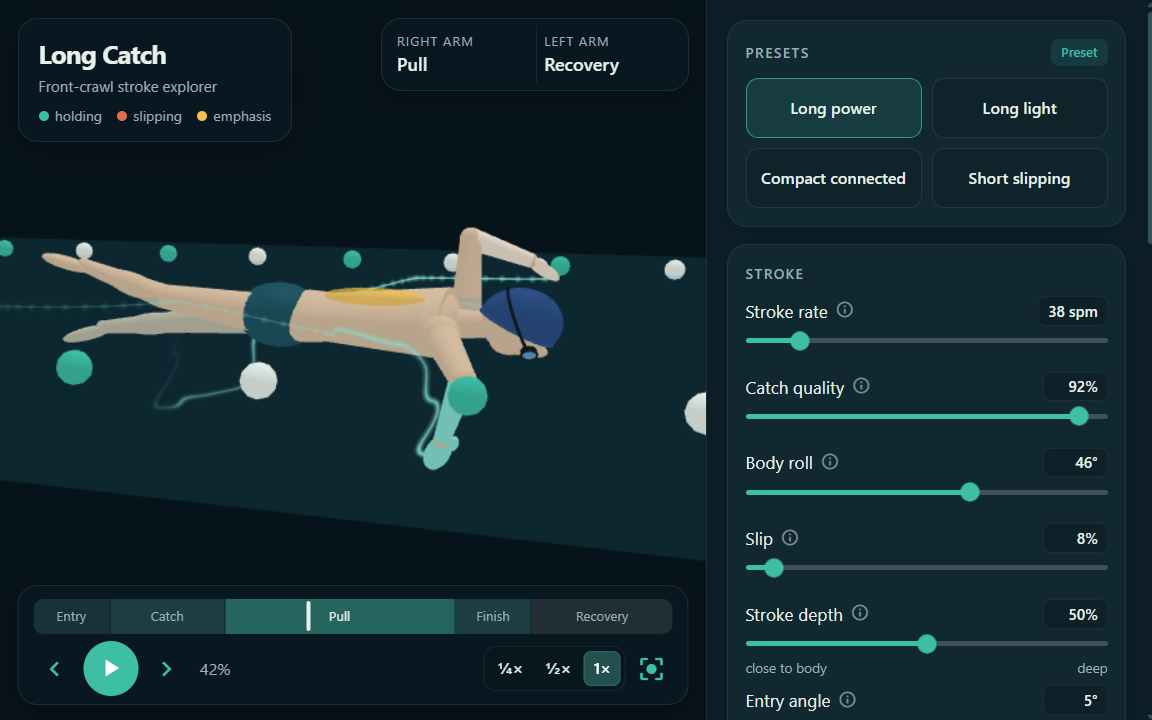
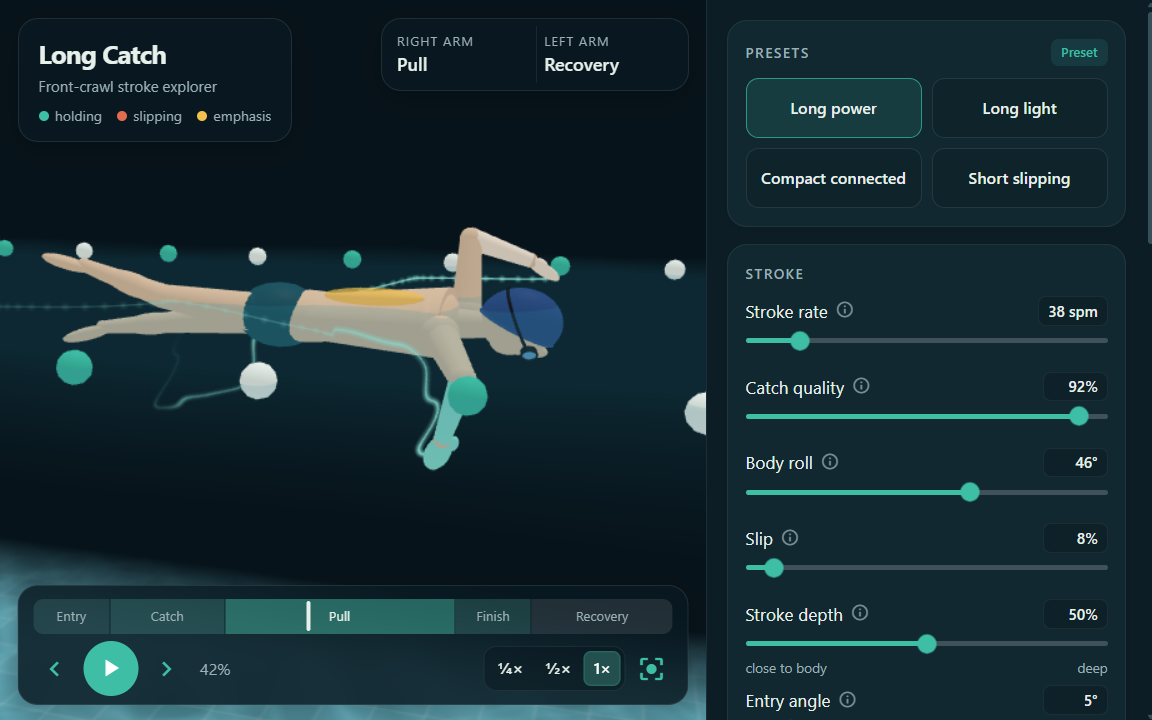
feat: more realistic water and pool floor
Animated surface swell with a bow wave, a softer sheen, and faded edges; a tiled pool floor with a lane line and drifting caustics that scroll at swim speed. Refresh README screenshots.

Changed region(s): [[0.0, 0.7639, 0.625, 1.0], [0.25, 0.4278, 0.4375, 0.5194], [0.0938, 0.8861, 0.125, 0.9167]]

diff --git a/long_catch/static/engine.js b/long_catch/static/engine.js
@@ -11,7 +11,7 @@ window.LongCatch = window.LongCatch || (() => {
     sceneId: null, ids: null,   // scene element id and named object ids from Python
     params: null, faults: {},   // latest render params; active faults as {key: true}
     phase: 0,                   // right-arm cycle phase in [0, 1)
-    offset: 0,                  // distance swum, used to scroll the lane ropes
+    offset: 0,                  // distance swum, used to scroll the lane ropes and pool floor
     last: null,                 // previous frame timestamp (null after a pause or seek)
     m: null,                    // resolved meshes and per-arm IK scratch objects
     running: false,             // animation loop and listeners installed
@@ -258,6 +258,145 @@ window.LongCatch = window.LongCatch || (() => {
     S.trailReset = false;
   }
 
+  // ---- water ------------------------------------------------------------------
+
+  // Surface: a fine grid with a gentle travelling swell, a small bow wave at the head, and a soft sheen.
+  // Floor: tiles, a lane line, and two layers of drifting caustics, well below the swimmer.
+  // Every layer fades out at its edges so the pool has no hard slab outline.
+  const SURFACE = { w: 10, h: 4, nx: 120, ny: 48, x: -0.5 };
+  const FLOOR_Z = -2.1;
+
+  function canvasTexture(size, draw, repeat) {
+    const canvas = document.createElement('canvas');
+    canvas.width = canvas.height = size;
+    draw(canvas.getContext('2d'), size);
+    const tex = new THREE.CanvasTexture(canvas);
+    if (repeat) { tex.wrapS = tex.wrapT = THREE.RepeatWrapping; tex.repeat.set(...repeat); }
+    return tex;
+  }
+
+  // White in the middle, fading to black at every edge (used as an alpha map).
+  function drawEdgeFade(g, n) {
+    g.fillStyle = '#fff';
+    g.fillRect(0, 0, n, n);
+    g.globalCompositeOperation = 'multiply';
+    for (const [x1, y1] of [[n, 0], [0, n]]) {
+      const grad = g.createLinearGradient(0, 0, x1, y1);
+      grad.addColorStop(0, '#000');
+      grad.addColorStop(0.22, '#fff');
+      grad.addColorStop(0.78, '#fff');
+      grad.addColorStop(1, '#000');
+      g.fillStyle = grad;
+      g.fillRect(0, 0, n, n);
+    }
+  }
+
+  // One metre of floor: 4 × 4 tiles with slight shade variation and pale grout.
+  function drawTiles(g, n) {
+    const base = rgb(CONFIG.colors.floor).map(v => v * 255), tile = n / 4;
+    for (let i = 0; i < 4; i++) {
+      for (let j = 0; j < 4; j++) {
+        const k = 0.94 + 0.12 * (((i * 7 + j * 13) % 5) / 4);
+        g.fillStyle = `rgb(${base.map(v => Math.round(v * k)).join(',')})`;
+        g.fillRect(i * tile, j * tile, tile, tile);
+      }
+    }
+    g.strokeStyle = 'rgba(160, 215, 225, 0.12)';
+    g.lineWidth = 2;
+    for (let i = 0; i <= 4; i++) {
+      g.beginPath(); g.moveTo(i * tile, 0); g.lineTo(i * tile, n); g.stroke();
+      g.beginPath(); g.moveTo(0, i * tile); g.lineTo(n, i * tile); g.stroke();
+    }
+  }
+
+  // Tileable caustic web: bright where two cellular-noise cells meet (Worley F2 − F1 near zero).
+  function drawCaustics(g, n) {
+    const seeds = Array.from({ length: 14 }, (_, i) => [((i * 0.618) % 1) * n, ((i * 0.377 + 0.13 * (i % 3)) % 1) * n]);
+    const img = g.createImageData(n, n);
+    for (let y = 0; y < n; y++) {
+      for (let x = 0; x < n; x++) {
+        let f1 = Infinity, f2 = Infinity;
+        for (const [sx, sy] of seeds) {
+          const dx = Math.min(Math.abs(x - sx), n - Math.abs(x - sx)), dy = Math.min(Math.abs(y - sy), n - Math.abs(y - sy));
+          const d = Math.hypot(dx, dy);
+          if (d < f1) { f2 = f1; f1 = d; } else if (d < f2) f2 = d;
+        }
+        const v = Math.max(0, 1 - (f2 - f1) / (0.07 * n)) ** 2.2, o = 4 * (y * n + x);
+        img.data[o] = img.data[o + 1] = img.data[o + 2] = 255 * v;
+        img.data[o + 3] = 255;
+      }
+    }
+    g.putImageData(img, 0, 0);
+  }
+
+  // Build the surface waves and the pool floor once per scene; returns false until THREE has loaded.
+  function setupWater(m) {
+    if (m.pool) return true;
+    if (!THREE) return false;
+    const scene = S.el.scene, edge = canvasTexture(128, drawEdgeFade);
+    const old = scene.getObjectByName('lc-pool');
+    if (old) scene.remove(old);
+
+    m.water.geometry.dispose();
+    m.water.geometry = new THREE.PlaneGeometry(SURFACE.w, SURFACE.h, SURFACE.nx, SURFACE.ny);
+    m.water.material = new THREE.MeshPhongMaterial({
+      color: CONFIG.colors.water, specular: 0x6fa9b8, shininess: 90, transparent: true, opacity: 0.17,
+      side: THREE.DoubleSide, depthWrite: false, alphaMap: edge,
+    });
+    m.water.renderOrder = 2;
+
+    const pool = new THREE.Group();
+    pool.name = 'lc-pool';
+    const layer = (w, h, z, material, order) => {
+      const mesh = new THREE.Mesh(new THREE.PlaneGeometry(w, h), material);
+      mesh.position.set(SURFACE.x, 0, z);
+      mesh.renderOrder = order;
+      pool.add(mesh);
+      return mesh;
+    };
+    const flat = { transparent: true, depthWrite: false, alphaMap: edge };
+    const tiles = canvasTexture(256, drawTiles, [SURFACE.w, SURFACE.h]);
+    layer(SURFACE.w, SURFACE.h, FLOOR_Z, new THREE.MeshBasicMaterial({ ...flat, map: tiles }), -3);
+    layer(SURFACE.w, 0.24, FLOOR_Z + 0.004, new THREE.MeshBasicMaterial({ ...flat, color: CONFIG.colors.laneLine }), -2);
+    const glow = canvasTexture(128, drawCaustics);
+    const caustics = [[4, 1.6, 0.07], [6.5, 2.6, 0.05]].map(([rx, ry, opacity], i) => {
+      const map = glow.clone();
+      map.wrapS = map.wrapT = THREE.RepeatWrapping;
+      map.repeat.set(rx, ry);
+      map.needsUpdate = true;
+      layer(SURFACE.w, SURFACE.h, FLOOR_Z + 0.008 + 0.002 * i, new THREE.MeshBasicMaterial({
+        ...flat, map, opacity, color: 0xbff6ff, blending: THREE.AdditiveBlending,
+      }), -1);
+      return map;
+    });
+    scene.add(pool);
+    m.pool = { tiles, caustics, time: 0 };
+    return true;
+  }
+
+  // Move the swell and bow wave, and scroll the floor back at swim speed (so the pool slides past).
+  function updateWater(m, P, dt) {
+    if (!setupWater(m)) return;
+    const pool = m.pool, t = (pool.time += dt), off = S.offset;
+    const pos = m.water.geometry.attributes.position, a = pos.array;
+    for (let i = 0; i < pos.count; i++) {
+      const x = a[3 * i] + SURFACE.x + off, y = a[3 * i + 1], lx = a[3 * i] + SURFACE.x;
+      const swell = 0.009 * Math.sin(2.1 * x + 1.3 * y + 1.7 * t) + 0.006 * Math.sin(3.4 * x - 2.2 * y + 2.6 * t)
+        + 0.003 * Math.sin(7.9 * x + 5.1 * y + 4.1 * t);
+      // Bow wave lifts the water at the head; a shallow trough follows at the shoulders.
+      const bow = 0.018 * Math.exp(-((lx - 0.62) ** 2) / 0.02 - y * y / 0.03)
+        - 0.012 * Math.exp(-((lx - 0.3) ** 2) / 0.03 - y * y / 0.09);
+      a[3 * i + 2] = swell + bow * Math.min(1, P.speed);
+    }
+    pos.needsUpdate = true;
+    m.water.geometry.computeVertexNormals();
+    pool.tiles.offset.x = wrap(off);
+    pool.caustics.forEach((map, i) => {
+      const r = map.repeat.x / SURFACE.w, s = i ? -1 : 1;
+      map.offset.set(wrap(off * r + 0.02 * s * t), wrap(0.015 * t * s));
+    });
+  }
+
   // ---- split view -------------------------------------------------------------
 
   // Extra scene views share the scene; the engine aims their camera from a preset angle and keeps it fitted.
@@ -453,6 +592,7 @@ window.LongCatch = window.LongCatch || (() => {
     poseArm(m, 'L', left, P, slipness, bodyRoll, pitch);
     poseLegs(m, P, F);
     updateTrails(m, P, scaled);
+    updateWater(m, P, scaled);
     fitView();
 
     const [eb, et, ec] = EMPHASIS[P.emphasis] || EMPHASIS.balanced;

diff --git a/long_catch/engine.py b/long_catch/engine.py
@@ -17,7 +17,14 @@ from long_catch.theme import PALETTE, STATIC_DIR
 def engine_script() -> str:
     """Inline <script>: engine configuration followed by the engine source."""
     config = {
-        'colors': {'hold': PALETTE.hold, 'slip': PALETTE.slip, 'skin': PALETTE.skin},
+        'colors': {
+            'hold': PALETTE.hold,
+            'slip': PALETTE.slip,
+            'skin': PALETTE.skin,
+            'water': PALETTE.water,
+            'floor': PALETTE.floor,
+            'laneLine': PALETTE.lane_line,
+        },
         'background': PALETTE.background,
         'phases': list(PHASE_LABELS.values()),
         'finish': FINISH_START,

diff --git a/long_catch/swimmer.py b/long_catch/swimmer.py
@@ -125,7 +125,7 @@ class SwimmerBuilder:
         return self._register(name, obj.material(self.colors.patch, 0.0))
 
     def _water(self) -> None:
-        """Translucent, double-sided surface plane at z = 0."""
+        """Double-sided surface plane at z = 0; the engine adds waves and the pool floor."""
         self._register('water', ui.scene.plane(10, 4).material(self.colors.water, 0.16, 'both').move(-0.5, 0, 0.0))
 
     def _torso(self) -> None:

diff --git a/long_catch/theme.py b/long_catch/theme.py
@@ -24,6 +24,8 @@ class Palette:
     suit: str = '#1f5563'
     patch: str = '#f2c14e'
     water: str = '#2a8fa8'
+    floor: str = '#123f4c'
+    lane_line: str = '#05171e'
     cap: str = '#2b4f86'
     lens: str = '#5d9cc9'
     rubber: str = '#141c21'

diff --git a/README.md b/README.md
@@ -46,6 +46,7 @@ external services or network assets.
 | **Stroke faults** | Crossover, over-rotation, over-extension, flat hips, sinking legs, snaking, knee kick and spinning arms. Combine them freely; each adds a short coaching cue. |
 | **Water feedback** | Hands and forearms turn teal when holding water and coral when slipping. Amber shows the selected muscle emphasis. |
 | **Cameras** | Orbit freely, or add a second Top, Side, Front or Below view in split view. |
+| **Pool** | A gently moving water surface with a bow wave at the head, over a tiled floor with a lane line and drifting caustics. |
 | **Motion trails** | Fading trails for the hands, feet or both, adjustable from 0.5 to 5 seconds. |
 | **Stroke metrics** | Distance per stroke, strokes per 25 m and time per 25 m, updated live. |
 | **Timeline** | Scrub or step through entry, catch, pull, finish and recovery, at ¼×, ½× or 1× speed. |
